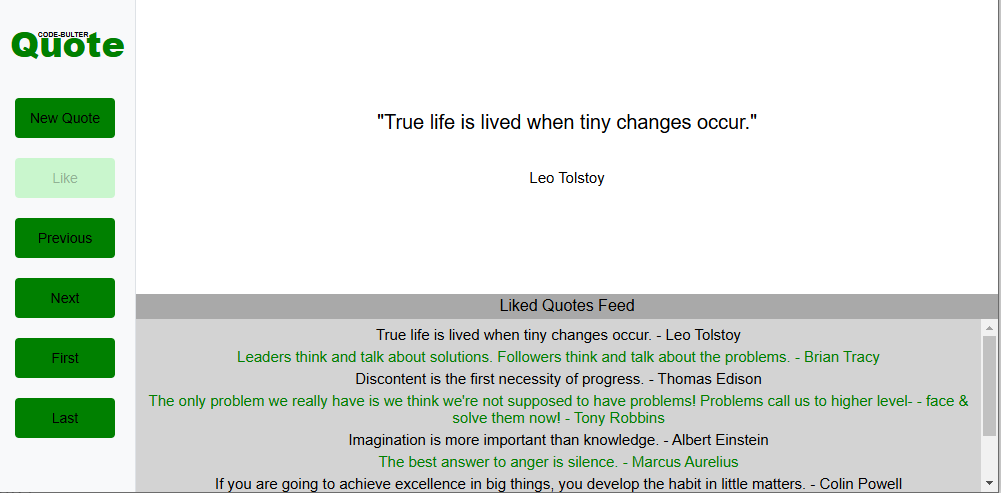
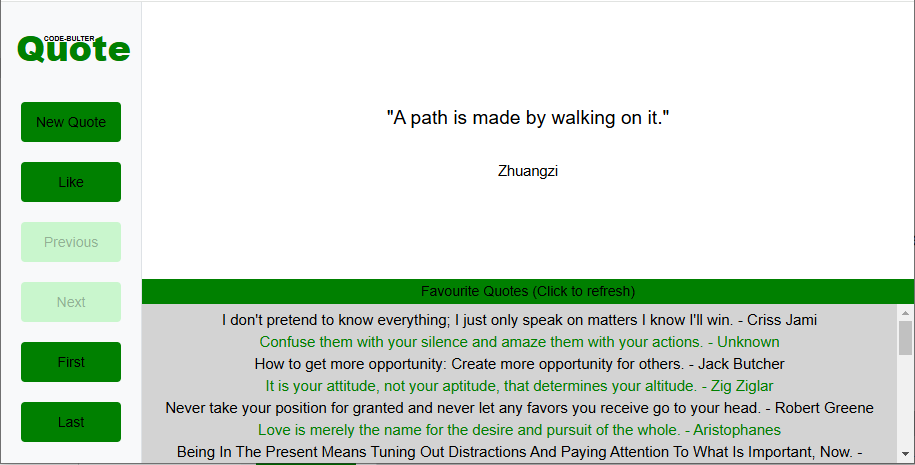
Add functionality to load and refresh favourite quotes
Introduced a "Favourite Quotes" button that fetches and displays liked quotes from the backend, with proper state handling for loading. Updated the UI and README to reflect the new feature and its compatibility with multiple backends. Also added a new API method for retrieving liked quotes.

diff --git a/src/components/EventBoxComponent.js b/src/components/EventBoxComponent.js
@@ -1,17 +1,23 @@
 import './EventBoxComponent.css'
 import {useEffect, useState} from "react";
 import {SSE_URL} from "../constants/constants";
+import quoteApi from "../api/quoteApi";
 
 
 function EventBoxComponent() {
 
     const [messages, setMessages] = useState([]);
+    const [loading, setLoading] = useState(false);
 
     useEffect(() => {
+        loadFavouriteQuotes();
+
         const sse = new EventSource(SSE_URL);
 
         sse.onmessage = (event) => {
-            setMessages((messages) => [event.data, ...messages]);
+            setMessages((messages) =>
+                messages.includes(event.data) ? [...messages] : [event.data, ...messages]
+            )
         };
 
         return () => {
@@ -19,13 +25,24 @@ function EventBoxComponent() {
         };
     }, []);
 
+    async function loadFavouriteQuotes() {
+        try {
+            setLoading(true);
+            const quotes = await quoteApi.getLikedQuotes();
+            setMessages(quotes.map(quote => quote.quoteText + " - " + quote.author));
+        } finally {
+            setLoading(false);
+        }
+    }
 
     return (
         <div className="eventBox">
-            <div className="eventBoxTitle">Liked Quotes Feed</div>
+            <button className="favouritesButton" disabled={loading} onClick={loadFavouriteQuotes}>
+                {loading ? "Loading Favourite Quotes..." : "Favourite Quotes (Click to refresh)"}
+            </button>
             <div className="messageBox">
                 {messages.map((message, index) => (
-                    <div className={index%2 === 0 ? "messageEven" : "messageOdd"} key={index}>{message}</div>
+                    <div className={index % 2 === 0 ? "messageEven" : "messageOdd"} key={index}>{message}</div>
                 ))}
             </div>
         </div>

diff --git a/src/components/EventBoxComponent.css b/src/components/EventBoxComponent.css
@@ -43,3 +43,25 @@
     padding: 2px;
     color: black;
 }
+
+.favouritesButton {
+    position: absolute;
+    top: 0;
+    left: 0;
+    height: 25px;
+    width: calc(100vw - 141px);
+    background-color: green;
+    border: 0;
+    /*border-radius: 4px;*/
+    font-size: 14px;
+    /*padding-top: 3px;*/
+}
+
+.favouritesButton:hover {
+    background-color: lightgray;
+    cursor: pointer;
+}
+
+.favouritesButton:disabled {
+    background-color: #c9f6cd;
+}

diff --git a/src/api/quoteApi.js b/src/api/quoteApi.js
@@ -27,8 +27,14 @@ async function likeQuote(quote) {
     return await response.json();
 }
 
+async function getLikedQuotes() {
+    const response = await fetch(`${BASE_URL}/quote/liked`, {
+        method: "GET",
+    });
+    return await response.json();
+}
 
 // eslint-disable-next-line import/no-anonymous-default-export
 export default {
-    getQuote, getUniqueQuote, likeQuote
+    getQuote, getUniqueQuote, likeQuote, getLikedQuotes
 };

diff --git a/README.md b/README.md
@@ -1,15 +1,22 @@
 # Quote web app written in ReactJS
-This web app uses the REST API which can be found at:
-https://github.com/edwinbulter/quote-server
+This web app can be used with the java API backend which can be found at:
+> https://github.com/edwinbulter/quote-server
+
+Or with the python/django API backend which can be found at:
+> https://github.com/edwinbulter/quote-django
+
 
 ## Screenshot
 ![quote-web-screenshot](public/quote-web-screenshot.png)
 
 
 Implemented features:
-- Liked Quotes Feed
-  - When a user likes a quote, the quote is send to all other users
-  - Liked quotes are added in the top of the Feed box
+- Favourite Quotes Feed
+  - When a user likes a quote, the quote is send to all other users (only works for the quote-server java backend)
+  - Liked quotes are added in the top of the Favourite Quotes box
+- Favourite Quotes Loading
+  - When the screen starts, the liked quotes are fetched and loaded in the Favourite Quotes box
+  - The header of the favourite quotes box also functions as a refresh button, which comes in handy if the backend doesn't implement the feed functionality like quote-django backend
 - New Quote Button:
   - Requests a new Random quote and sends the ids of all previously received quotes in the request to avoid receiving the same quote again
   - The button is disabled while the new quote is loading (and displays loading...)
